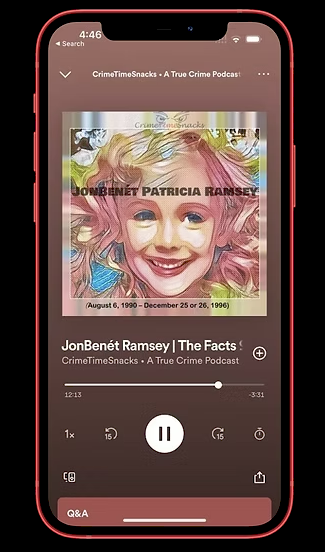
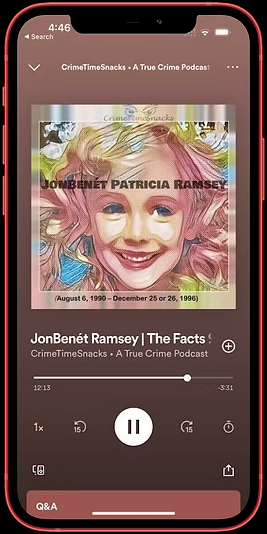
Hero: use Cory's background-removed center phone
Swapped in the center phone with the background deleted (flattened to pure black
via clipboard, near-black crushed to true #000). Floats cleanly on the hero with
no box. Bumped phone-center cache version to v=3.

diff --git a/index.html b/index.html
@@ -113,7 +113,7 @@
             <div class="hero-visual">
                 <div class="hero-phones">
                     <img src="images/phone-left.png?v=2" alt="CrimeTimeSnacks on Apple Podcasts" class="hero-phone hero-phone--side hero-phone--left" loading="eager">
-                    <img src="images/phone-center.png?v=2" alt="An episode of CrimeTimeSnacks playing on Spotify" class="hero-phone hero-phone--center" loading="eager">
+                    <img src="images/phone-center.png?v=3" alt="An episode of CrimeTimeSnacks playing on Spotify" class="hero-phone hero-phone--center" loading="eager">
                     <img src="images/phone-right.png?v=2" alt="The CrimeTimeSnacks show page on Spotify" class="hero-phone hero-phone--side hero-phone--right" loading="eager">
                 </div>
                 <img src="images/ipad.png?v=2" alt="CrimeTimeSnacks on Apple Podcasts, shown on iPad" class="hero-ipad" loading="eager"
